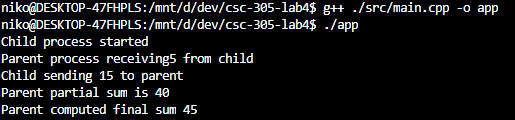
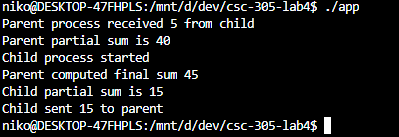
Update screenshot

Changed region(s): [[0.0, 0.0, 0.9925, 0.85], [0.0, 0.85, 0.8421, 1.0]]

diff --git a/src/main.cpp b/src/main.cpp
@@ -14,10 +14,6 @@ int main () {
   int childPipeFd [2];
   pipe(parentPipeFd);
   pipe(childPipeFd);
-  char buffer [20];
-
-  // Sum
-  unsigned int sum = 0;
 
   // If in child process.
   if (pid == 0) {
@@ -34,15 +30,16 @@ int main () {
     for (int i = 1; i <= 5; i++) {
       childSum += i;
     }
+    cout << "Child partial sum is " << childSum << endl;
 
-    cout << "Child sending " << childSum << " to parent" << endl;
+    cout << "Child sent " << childSum << " to parent" << endl;
 
     write(childPipeFd[1], &childSum, sizeof(childSum));
   }
 
   // Else if in parent proccess.
   else {
-    cout << "Parent process receiving" << childPipeFd[0] << " from child" << endl;
+    cout << "Parent process received " << childPipeFd[0] << " from child" << endl;
     int totalSum = childPipeFd[0];
     
     // Close read of parent pipe.
@@ -59,6 +56,7 @@ int main () {
     totalSum += parentSum;
 
     cout << "Parent partial sum is " << parentSum << endl;
+
     cout << "Parent computed final sum " << totalSum << endl;
   }
   
